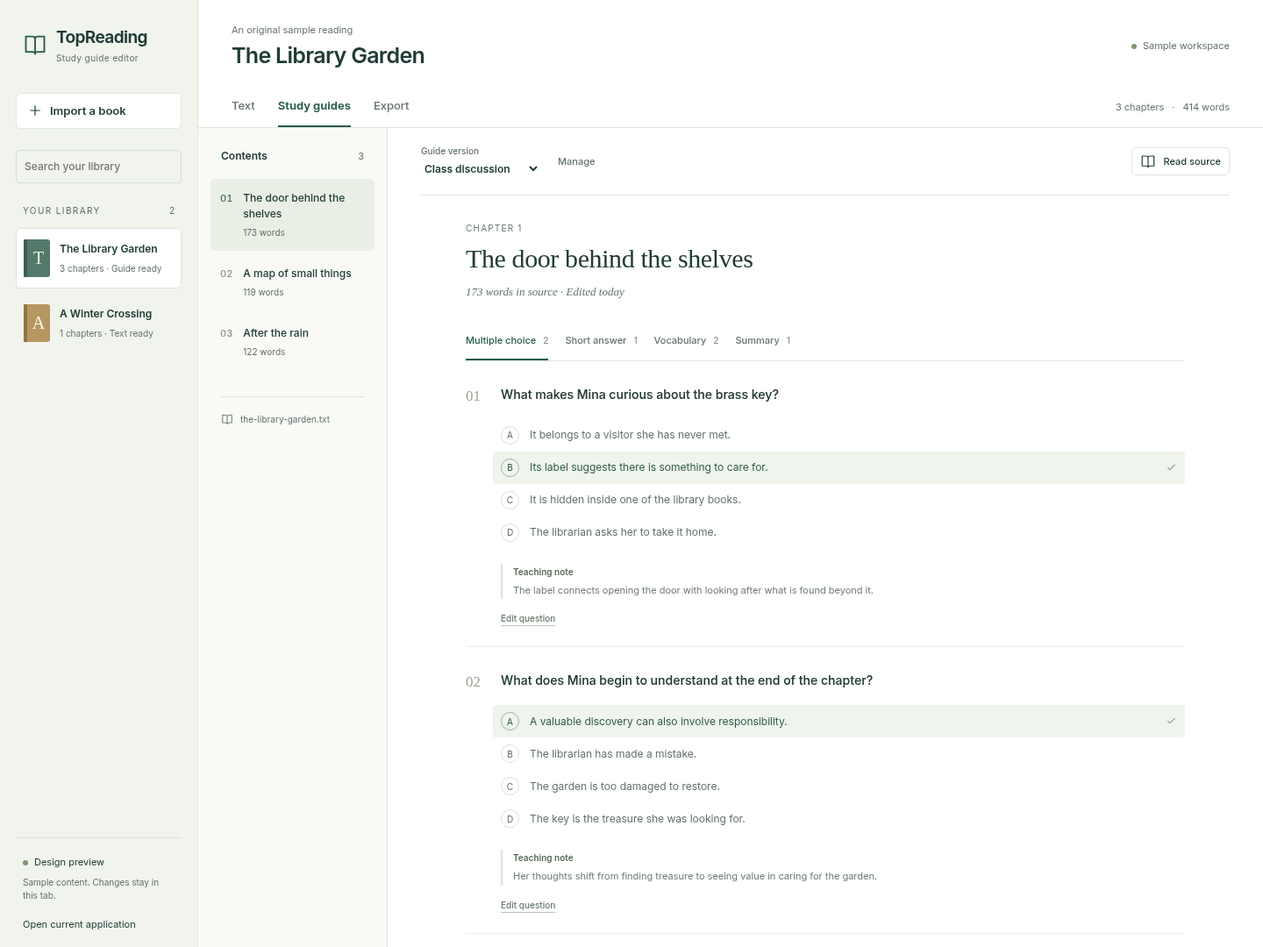
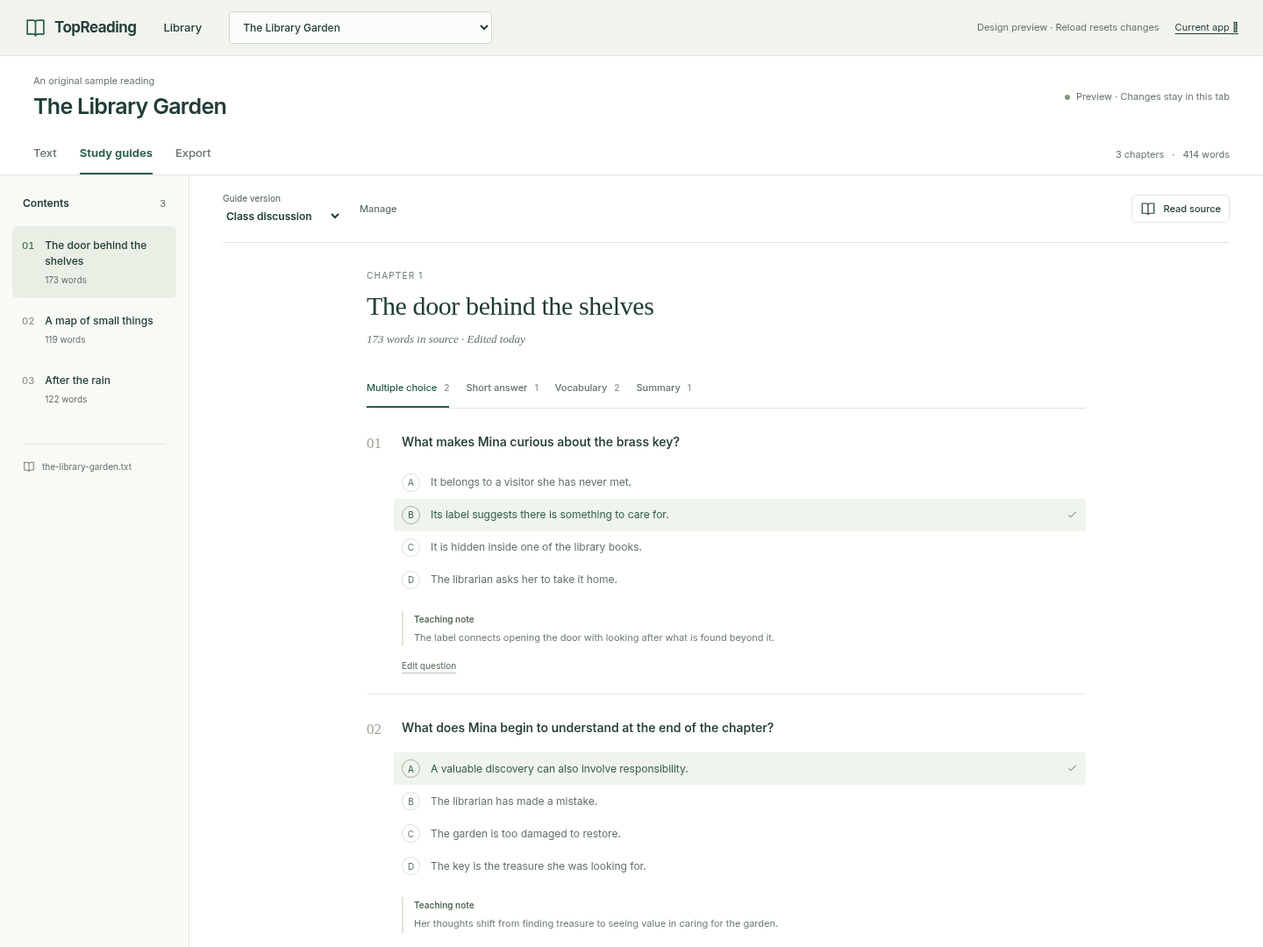
Replace nested library sidebar with a book switcher and library view

diff --git a/apps/web/src/app/prototype/reading-prototype.tsx b/apps/web/src/app/prototype/reading-prototype.tsx
@@ -35,6 +35,8 @@ export function ReadingPrototype() {
   const [splitPosition, setSplitPosition] = useState(0);
   const dialog = useRef<HTMLDialogElement>(null);
   const chapterText = useRef<HTMLTextAreaElement>(null);
+  const readingPositions = useRef(new Map<string, { chapterId: string; guideId: string; view: View; kind: ItemKind; draft: Item | null; sourceOpen: boolean }>());
+  const pageHeading = useRef<HTMLHeadingElement>(null);
   const book = books.find(b => b.id === bookId) || books[0];
   const chapter = book.chapters.find(c => c.id === chapterId) || book.chapters[0];
   const guide = book.guides.find(g => g.id === guideId) || book.guides[0];
@@ -53,12 +55,24 @@ export function ReadingPrototype() {
     return () => clearTimeout(timer);
   }, [message]);
 
+  useEffect(() => {
+    pageHeading.current?.focus();
+  }, [libraryOpen, bookId]);
+
   function updateBook(update: (b: Book) => Book) {
     setBooks(previous => previous.map(b => b.id === book.id ? update(b) : b));
   }
   function selectBook(next: Book) {
-    setBookId(next.id); setChapterId(next.chapters[0].id); setGuideId(next.guides[0]?.id || "");
-    setView(next.guides.length ? "guides" : "text"); setDraft(null); setLibraryOpen(false); setSplitPosition(0);
+    setLibraryOpen(false);
+    if (next.id === book.id) return;
+    readingPositions.current.set(book.id, { chapterId: chapter.id, guideId: guide?.id || "", view, kind, draft, sourceOpen });
+    const position = readingPositions.current.get(next.id);
+    setBookId(next.id);
+    setChapterId(next.chapters.find(c => c.id === position?.chapterId)?.id || next.chapters[0].id);
+    setGuideId(next.guides.find(g => g.id === position?.guideId)?.id || next.guides[0]?.id || "");
+    setView(position?.view || (next.guides.length ? "guides" : "text"));
+    setKind(position?.kind || "multiple-choice"); setDraft(position?.draft || null);
+    setSourceOpen(position?.sourceOpen || false); setSplitPosition(0);
   }
   function selectChapter(id: string) {
     setChapterId(id); setDraft(null); setSplitPosition(0);
@@ -122,21 +136,24 @@ export function ReadingPrototype() {
   }
 
   return <main className={s.shell}>
-    <aside className={`${s.library} ${libraryOpen ? s.libraryVisible : ""}`} aria-label="Book library">
-      <a href="/prototype" className={s.brand}><Mark name="book" /><span>TopReading<span className={s.brandSub}>Study guide editor</span></span></a>
-      <button className={s.newBook} onClick={() => { setImportError(""); setModal("import"); }}><Mark name="plus" />Import a book</button>
-      <label className={s.search}><span>Find a book</span><input placeholder="Search your library" value={search} onChange={e => setSearch(e.target.value)} /></label>
-      <div className={s.libraryLabel}>YOUR LIBRARY <span>{books.length}</span></div>
-      <div className={s.bookList}>{books.filter(b => b.title.toLowerCase().includes(search.toLowerCase())).map((b, i) => <button key={b.id} className={b.id === book.id ? s.activeBook : ""} aria-pressed={b.id === book.id} onClick={() => selectBook(b)}><span className={`${s.bookSpine} ${i % 2 ? s.ochre : ""}`}>{b.title.slice(0, 1)}</span><span><strong>{b.title}</strong><small>{b.chapters.length} chapters · {b.guides.length ? "Guide ready" : "Text ready"}</small></span></button>)}{!books.some(b => b.title.toLowerCase().includes(search.toLowerCase())) ? <p className={s.quiet}>No books match your search.</p> : null}</div>
-      <footer className={s.libraryFooter}><span className={s.previewDot} />Design preview<p>Sample content. Changes stay in this tab.</p><a href="/">Open current application <span aria-hidden="true">↗</span></a></footer>
-      <button className={s.mobileClose} onClick={() => setLibraryOpen(false)}>Close library</button>
-    </aside>
-    {libraryOpen ? <button className={s.scrim} aria-label="Close library" onClick={() => setLibraryOpen(false)} /> : null}
-    <section className={s.workspace} aria-label="Selected book">
+    <header className={s.appBar}>
+      <span className={s.brand}><Mark name="book" /><span className={s.brandName}>TopReading</span></span>
+      <button className={s.libraryButton} aria-pressed={libraryOpen} onClick={() => setLibraryOpen(true)}>Library</button>
+      <label className={s.bookSwitcher}><span>Current book</span><select aria-label="Current book" value={book.id} onChange={e => selectBook(books.find(b => b.id === e.target.value)!)}>{books.map(b => <option key={b.id} value={b.id}>{b.title}</option>)}</select></label>
+      <span className={s.previewLabel}>Design preview · Reload resets changes</span>
+      <a className={s.currentApp} href="/">Current app ↗</a>
+    </header>
+    {libraryOpen ? <section className={s.libraryPage} aria-label="Book library">
+      <div className={s.libraryInner}>
+        <div className={s.libraryHeading}><div><p className={s.chapterKicker}>Your reading workspace</p><h1 ref={pageHeading} tabIndex={-1}>Library</h1><p>Choose a book to continue, or bring in a new reading.</p></div><button className={s.primary} onClick={() => { setImportError(""); setModal("import"); }}><Mark name="plus" />Import a book</button></div>
+        <div className={s.libraryTools}><label className={s.search}><span>Find a book</span><input placeholder="Search by title or author" value={search} onChange={e => setSearch(e.target.value)} /></label><span>{books.length} {books.length === 1 ? "book" : "books"}</span></div>
+        <div className={s.bookList}>{books.filter(b => `${b.title} ${b.author}`.toLowerCase().includes(search.toLowerCase())).map((b, i) => <button key={b.id} aria-label={`Open ${b.title}`} onClick={() => selectBook(b)}><span className={`${s.bookSpine} ${i % 2 ? s.ochre : ""}`}>{b.title.slice(0, 1)}</span><span className={s.bookDetails}><strong>{b.title}</strong><small>{b.author}</small></span><span className={s.bookMeta}>{b.chapters.length} {b.chapters.length === 1 ? "chapter" : "chapters"}<small>{b.guides.length ? `${b.guides.length} guide ${b.guides.length === 1 ? "version" : "versions"}` : "Text ready"}</small></span><span className={s.openBook}>{b.id === book.id ? "Continue" : "Open"}<Mark name="arrow" /></span></button>)}{!books.some(b => `${b.title} ${b.author}`.toLowerCase().includes(search.toLowerCase())) ? <p className={s.empty}>No books match your search.</p> : null}</div>
+        <footer className={s.libraryFooter}><button onClick={() => setLibraryOpen(false)}>Return to {book.title}</button><p>Changes stay in this preview tab. Reloading resets the library.</p></footer>
+      </div>
+    </section> : <section className={s.workspace} aria-label="Selected book">
       <header className={s.header}>
-        <button className={s.mobileMenu} aria-label="Open library" aria-expanded={libraryOpen} onClick={() => setLibraryOpen(true)}><Mark name="menu" /></button>
-        <div className={s.bookHeading}><p>{book.author}</p><h1>{book.title}</h1></div>
-        <span className={s.headerStatus}><span className={s.previewDot} />Sample workspace</span>
+        <div className={s.bookHeading}><p>{book.author}</p><h1 ref={pageHeading} tabIndex={-1}>{book.title}</h1></div>
+        <span className={s.headerStatus}><span className={s.previewDot} />Preview · Changes stay in this tab</span>
       </header>
       <nav className={s.navigation} aria-label="Book sections">{([['text', 'Text'], ['guides', 'Study guides'], ['export', 'Export']] as const).map(([id, label]) => <button key={id} className={view === id ? s.activeNav : ""} aria-pressed={view === id} onClick={() => { setView(id); setDraft(null); }}>{label}</button>)}<span>{book.chapters.length} chapters<span className={s.dot}>·</span>{book.chapters.reduce((sum, c) => sum + words(c.text), 0).toLocaleString()} words</span></nav>
 
@@ -168,7 +185,7 @@ export function ReadingPrototype() {
           <div className={s.printStage}><div className={s.printLabel}>HANDOUT PREVIEW <span>{exportCount} items</span></div><article className={s.printable}><header><span>TOPREADING · {includeAnswers ? "TEACHER COPY" : "READING PRACTICE"}</span><h2>{book.title}</h2><p>{guide?.name || "Choose a study guide"}</p>{!includeAnswers ? <p className={s.studentLine}>Name _______________________ &nbsp; Date ____________</p> : null}</header>{!exportCount ? <p className={s.quiet}>Create a guide and select content to preview a handout.</p> : selectedExportChapters.map((c, index) => <section className={s.printChapter} key={c.id}><h3>{book.chapters.findIndex(v => v.id === c.id) + 1}. {c.title}</h3>{kinds.filter(k => exportKinds.includes(k)).map(k => { const collection = guide.items.filter(i => i.chapterId === c.id && i.kind === k); return collection.length ? <section key={k}><h4>{labels[k]}</h4>{collection.map((item, i) => <div className={s.printItem} key={item.id}><span>{i + 1}.</span><div>{itemBody(item, includeAnswers)}</div></div>)}</section> : null; })}{index < selectedExportChapters.length - 1 ? <hr /> : null}</section>)}</article></div>
         </div>}
       </div>
-    </section>
+    </section>}
     <div role="status" className={`${s.toast} ${message ? s.toastVisible : ""}`}>{message}</div>
     <dialog ref={dialog} className={s.dialog} aria-labelledby="prototype-dialog-title" onClose={() => setModal(null)}><header><h2 id="prototype-dialog-title">{modal === "import" ? "Bring in a reading" : modal === "generate" ? "Create a sample guide" : "Guide versions"}</h2><button aria-label="Close dialog" onClick={() => setModal(null)}><Mark name="close" /></button></header>
       {modal === "import" ? <><p>Try the import and chapter-review workflow with a text file. Nothing is uploaded to a server.</p><label className={s.dropzone}><Mark name="book" /><strong>{importing ? "Reading your file…" : "Choose a text file"}</strong><span>TXT · up to 2 MB</span><input type="file" accept=".txt,text/plain" aria-label="Import text file" disabled={importing} onChange={e => void importFile(e.target.files?.[0])} /></label><p className={s.quiet}>PDF and EPUB importing will use the extraction pipeline in the finished application.</p>{importError ? <p role="alert" className={s.error}>{importError}</p> : null}</> : modal === "generate" ? <form onSubmit={e => { e.preventDefault(); createGuide(); }}><p>This preview creates sample questions and a summary for each chapter so you can try editing and exporting. It does not call an AI service.</p><label>Guide name<input autoFocus required value={guideName} onChange={e => setGuideName(e.target.value)} /></label><div className={s.guideSummary}><span>{book.chapters.length} chapters</span><span>Questions + summaries</span></div><button className={s.primary}>Create sample guide <Mark name="arrow" /></button></form> : modal === "versions" ? <><p>Each version keeps its own edits. Choose the one you want to work on.</p>{book.guides.map(g => <div className={s.versionRow} key={g.id}><label>Version name<input aria-label={`Name for ${g.name}`} value={g.name} onChange={e => updateBook(b => ({ ...b, guides: b.guides.map(v => v.id === g.id ? { ...v, name: e.target.value } : v) }))} /><small>{g.date} · {g.items.length} items</small></label><button onClick={() => { setGuideId(g.id); setDraft(null); setModal(null); }}>{g.id === guide?.id ? "Continue editing" : "Use version"}</button></div>)}<button className={s.primary} onClick={() => setModal("generate")}><Mark name="plus" />New sample guide</button></> : null}

diff --git a/apps/web/src/app/prototype/reading-prototype.module.css b/apps/web/src/app/prototype/reading-prototype.module.css
@@ -1,4 +1,4 @@
-.shell { --p-ink:#213c37; --p-muted:#64726d; --p-line:#e1e5df; --p-accent:#285b4b; --p-paper:#fbfbf7; display:grid; grid-template-columns:226px minmax(0,1fr); height:100dvh; color:var(--p-ink); background:var(--p-paper); font-size:14px; line-height:1.5; }
+.shell { --p-ink:#213c37; --p-muted:#64726d; --p-line:#e1e5df; --p-accent:#285b4b; --p-paper:#fbfbf7; display:flex; flex-direction:column; height:100dvh; color:var(--p-ink); background:var(--p-paper); font-size:14px; line-height:1.5; }
 .shell button,.dialog button { display:inline-flex; align-items:center; justify-content:center; gap:8px; border:1px solid var(--p-line,#e1e5df); background:white; color:var(--p-ink,#213c37); border-radius:5px; padding:8px 12px; font-size:13px; font-weight:500; }
 .shell button:hover,.dialog button:hover { background:#edf2ec; border-color:#bdcdc0; }
 .shell button:disabled,.dialog button:disabled { opacity:.45; cursor:not-allowed; }
@@ -10,29 +10,40 @@
 .shell .primary,.dialog .primary { background:var(--p-accent,#285b4b); color:white; border-color:var(--p-accent,#285b4b); }
 .shell .primary:hover,.dialog .primary:hover { background:#1e493d; color:white; }
 .quiet { color:var(--p-muted); font-size:13px; }
-.library { display:flex; flex-direction:column; background:#f1f3ed; border-right:1px solid var(--p-line); padding:29px 18px 18px; min-height:0; }
-.brand { display:flex; align-items:center; gap:10px; margin:0 8px 32px; text-decoration:none; font-size:19px; font-weight:650; letter-spacing:-.6px; }
-.brand>svg { width:28px; height:28px; color:var(--p-accent); }
-.brandSub { display:block; font-size:10px; font-weight:400; letter-spacing:.4px; color:var(--p-muted); margin-top:1px; }
-.library .newBook { justify-content:flex-start; padding:10px 12px; background:white; font-weight:600; }
-.search { margin:24px 0; }
-.search>span { position:absolute; width:1px; height:1px; overflow:hidden; clip:rect(0,0,0,0); }
-.search input { background:transparent; border-color:#d7ddd3; width:100%; font-size:12px; padding:9px; }
-.libraryLabel { display:flex; justify-content:space-between; color:#627267; font-size:10px; letter-spacing:1.4px; margin:0 8px 12px; }
-.libraryLabel span { letter-spacing:0; }
-.bookList { overflow-y:auto; flex:1; }
-.bookList>button { justify-content:flex-start; text-align:left; width:100%; padding:12px 8px; margin-bottom:5px; border:1px solid transparent; background:transparent; gap:11px; }
-.bookList>button.activeBook { background:#fff; border-color:#dce3d9; }
-.bookList strong { display:block; font-size:12px; font-weight:600; line-height:1.45; }
-.bookList small { display:block; font-size:10px; font-weight:400; margin-top:6px; color:var(--p-muted); }
-.bookSpine { display:flex; align-items:center; justify-content:center; font:20px Georgia,serif; color:#eaf1e8; background:#54796a; border-left:4px solid #3a6052; width:30px; height:43px; flex:0 0 30px; border-radius:1px 3px 3px 1px; }
+.appBar { display:flex; flex-shrink:0; align-items:center; gap:18px; min-height:64px; padding:10px 28px; border-bottom:1px solid var(--p-line); background:#f1f3ed; }
+.brand { display:flex; align-items:center; gap:9px; font-size:17px; font-weight:650; letter-spacing:-.5px; white-space:nowrap; }
+.brand>svg { width:25px; height:25px; color:var(--p-accent); }
+.shell .libraryButton { background:transparent; border-color:transparent; font-size:13px; }
+.shell .libraryButton[aria-pressed=true] { border-color:#c8d3c4; background:#e7ede2; }
+.bookSwitcher { min-width:0; max-width:300px; flex:1; }
+.bookSwitcher>span,.search>span { position:absolute; width:1px; height:1px; overflow:hidden; clip:rect(0,0,0,0); }
+.bookSwitcher select { width:100%; font-size:12px; background:#fbfcf9; }
+.previewLabel { margin-left:auto; font-size:11px; color:var(--p-muted); }
+.currentApp { font-size:11px; white-space:nowrap; text-underline-offset:3px; }
+.libraryPage { flex:1; min-height:0; overflow-y:auto; background:#fbfcf8; padding:55px 38px; }
+.libraryInner { max-width:980px; margin:auto; }
+.libraryHeading { display:flex; align-items:center; justify-content:space-between; gap:24px; margin-bottom:35px; }
+.libraryHeading h1 { font:38px/1.25 Georgia,serif; margin:0; }
+/* Route headings receive focus for announcements, but are not controls. */
+.bookHeading h1:focus,.libraryHeading h1:focus { outline:none; }
+.libraryHeading p:not(.chapterKicker) { color:var(--p-muted); font-size:13px; margin:12px 0 0; }
+.libraryTools { display:flex; align-items:center; justify-content:space-between; gap:20px; padding-bottom:20px; border-bottom:1px solid var(--p-line); }
+.libraryTools>span { font-size:12px; color:var(--p-muted); white-space:nowrap; }
+.search { width:min(370px,100%); }
+.search input { width:100%; font-size:13px; }
+.bookList>button { display:flex; justify-content:flex-start; text-align:left; width:100%; padding:23px 8px; border:0; border-bottom:1px solid var(--p-line); border-radius:0; background:transparent; gap:22px; }
+.bookDetails { flex:1; min-width:0; }
+.bookList strong { display:block; font:22px/1.4 Georgia,serif; overflow-wrap:anywhere; }
+.bookList small { display:block; font-size:12px; font-weight:400; margin-top:6px; color:var(--p-muted); }
+.bookMeta { flex:0 0 140px; font-size:12px; font-weight:400; }
+.openBook { display:flex; align-items:center; justify-content:flex-end; gap:12px; min-width:90px; font-size:12px; }
+.bookSpine { display:flex; align-items:center; justify-content:center; font:26px Georgia,serif; color:#eaf1e8; background:#54796a; border-left:5px solid #3a6052; width:45px; height:62px; flex:0 0 45px; border-radius:1px 3px 3px 1px; }
 .bookSpine.ochre { background:#b69762; border-color:#947542; color:#fff9eb; }
-.libraryFooter { border-top:1px solid #d9e0d5; padding:19px 8px 0; font-size:11px; }
-.libraryFooter p { font-size:10px; color:var(--p-muted); margin:7px 0 17px; max-width:160px; }
-.libraryFooter a { display:flex; justify-content:space-between; font-size:11px; text-decoration:none; }
+.libraryFooter { display:flex; align-items:center; justify-content:space-between; gap:20px; padding-top:28px; }
+.libraryFooter p { font-size:11px; color:var(--p-muted); }
 .previewDot { display:inline-block; width:6px; height:6px; border-radius:50%; background:#819675; margin-right:7px; }
-.workspace { display:flex; flex-direction:column; min-width:0; min-height:0; }
-.header { display:flex; align-items:center; gap:16px; justify-content:space-between; padding:26px 38px 21px; background:white; }
+.workspace { flex:1; display:flex; flex-direction:column; min-width:0; min-height:0; }
+.header { display:flex; align-items:center; gap:16px; justify-content:space-between; padding:20px 38px 17px; background:white; }
 .bookHeading { min-width:0; }
 .bookHeading p { color:var(--p-muted); font-size:11px; margin:0 0 5px; }
 .bookHeading h1 { font-size:25px; line-height:1.2; letter-spacing:-.7px; margin:0; font-weight:600; overflow-wrap:anywhere; }
@@ -161,9 +172,8 @@
 .dialog>.primary { margin-top:18px; }
 .toast { position:fixed; bottom:24px; left:50%; transform:translate(-50%,20px); max-width:min(560px,calc(100vw - 32px)); color:white; background:#274b3e; padding:12px 20px; border-radius:6px; font-size:12px; opacity:0; pointer-events:none; transition:opacity .15s,transform .15s; z-index:50; }
 .toastVisible { opacity:1; transform:translate(-50%,0); }
-.mobileMenu,.mobileClose,.chapterPicker,.scrim { display:none!important; }
+.chapterPicker { display:none!important; }
 @media (max-width:1200px) {
- .shell { grid-template-columns:195px minmax(0,1fr); }
  .outline { flex-basis:185px; padding-left:8px; padding-right:8px; }
  .header { padding-left:28px; padding-right:28px; }
  .navigation { padding:0 28px; }
@@ -174,16 +184,29 @@
  .printable { padding:30px; }
 }
 @media (max-width:950px) {
- .shell { grid-template-columns:1fr; }
- .library { display:none; }
- .library.libraryVisible { display:flex; position:fixed; top:0; bottom:0; left:0; width:270px; z-index:100; box-shadow:15px 0 50px #203d352b; }
- .mobileMenu,.mobileClose { display:inline-flex!important; }
- .mobileClose { margin-top:20px; }
- .scrim { display:block!important; position:fixed; inset:0; width:100%; height:100%; border:0!important; background:#17372a70!important; z-index:90; border-radius:0!important; }
- .headerStatus { margin-left:auto; }
- .header { justify-content:flex-start; }
+ .previewLabel { display:none; }
+ .currentApp { margin-left:auto; }
+ .appBar { gap:12px; padding-left:20px; padding-right:20px; }
 }
 @media (max-width:650px) {
+ .appBar { min-height:58px; padding:10px 16px; gap:8px; }
+ .brandName,.currentApp { display:none; }
+ .brand>svg { width:22px; height:22px; }
+ .shell .libraryButton { padding:8px; font-size:12px; }
+ .bookSwitcher { max-width:none; }
+ .bookSwitcher select { font-size:12px; padding:8px; }
+ .libraryPage { padding:30px 20px; }
+ .libraryHeading { flex-wrap:wrap; gap:18px; margin-bottom:25px; }
+ .libraryHeading h1 { font-size:32px; }
+ .bookList>button { display:grid; grid-template-columns:35px minmax(0,1fr); gap:7px 15px; padding:22px 0; }
+ .bookSpine { grid-row:1/3; width:35px; height:50px; font-size:23px; }
+ .bookList strong { font-size:20px; }
+ .bookList small { font-size:11px; }
+ .bookMeta { grid-column:2; font-size:11px; color:var(--p-muted); }
+ .bookMeta small { display:inline; margin-left:10px; }
+ .openBook { display:none; }
+ .libraryFooter { flex-direction:column; align-items:flex-start; gap:8px; }
+
  .header { padding:18px 17px 16px; gap:12px; }
  .bookHeading p { font-size:9px; }
  .bookHeading h1 { font-size:20px; }
@@ -227,7 +250,7 @@
 @media print {
  :global(html):has(.shell),:global(body):has(.shell) { height:auto!important; overflow:visible!important; background:white!important; }
  .shell,.workspace,.content,.exportWorkspace,.printStage { display:block!important; height:auto!important; overflow:visible!important; padding:0!important; background:white!important; }
- .library,.header,.navigation,.exportSettings,.printLabel,.toast,.dialog,.scrim { display:none!important; }
+ .appBar,.libraryPage,.header,.navigation,.exportSettings,.printLabel,.toast,.dialog { display:none!important; }
  .printable { border:0; padding:0; max-width:none; min-height:0; }
  .printChapter h3,.printChapter h4 { break-after:avoid; }
  .printItem { break-inside:avoid; }

diff --git a/docs/prototype-and-postgres.md b/docs/prototype-and-postgres.md
@@ -13,20 +13,32 @@ npm run dev
 
 Open `/prototype` on that development server. The existing application remains at `/`.
 
-The prototype has three destinations: Text, Study guides, and Export. It uses fictional sample readings and keeps changes in browser memory. Reloading resets everything. It makes no API requests, changes no application records, and makes no AI calls.
+Inside a book, the prototype has three destinations: Text, Study guides, and Export. A header book switcher and a separate searchable Library view replace the persistent library sidebar. Only the chapter outline remains beside Text and Study guides; Export uses that space for its settings. It uses fictional sample readings and keeps changes in browser memory. Reloading resets everything. It makes no API requests, changes no application records, and makes no AI calls.
 
 Try these tasks:
 
 1. Import a UTF-8 TXT file (up to 2 MB). Review suggested chapters, including any opening pages. Edit titles and text, split at the cursor, and merge adjacent chapters.
 2. Choose a guide version. Edit a question and its correct answer, add an item, and switch versions to check that their edits stay separate. Open the source text beside the questions. Create a new sample guide through Text or Manage.
 3. Choose Export, select chapters and content, and toggle answers. Use the browser print dialog to print or save a PDF.
-4. On a phone, open the library from the menu and change chapters using the picker.
+4. Open Library from the header and search by title or author. Return to the current book, or switch books using the header selector. Within this tab, each book retains its chapter, guide version, content type, source visibility, and question draft. On a phone, use the same header controls and the chapter picker.
 
 This slice establishes layout and interactions. It does not yet implement persistent saving, actual AI generation, PDF/EPUB extraction, DOCX export, Korean UI, dark mode, or job recovery states. Those remain in the [modernization plan](modernization-plan.md). Sample questions created from imported text are placeholders for exercising the workflow.
 
 ![Desktop study guide](prototype/desktop.png)
 
-[Phone layout](prototype/mobile.png) · [Handout preview](prototype/export.png)
+[Library view](prototype/library.png) · [Phone layout](prototype/mobile.png) · [Handout preview](prototype/export.png)
+
+## Design decisions before backend integration
+
+The single-sidebar layout is implemented. The following are recommended behavior defaults for the next implementation slice, not claims about completed prototype features:
+
+- **Saving and navigation:** show persistent Saving / Saved / Could not save feedback near the editor; preserve failed edits with a Retry action. Keep unsaved question drafts when navigating, and make reload/leave protection explicit. Restore book, task, chapter, and guide through URL state in the real app. The prototype only remembers book context in memory; changing a task/chapter/version can still discard an open question draft.
+- **Reversible chapter changes:** offer immediate Undo after splitting or merging, plus revision history. Review proposed boundaries before replacing the chapter structure. Each operation must be atomic and preserve the text; confirmation is appropriate for replacement or deletion rather than every ordinary edit.
+- **Generation and source changes:** generate into a new guide version by default, preserving manual edits. Separate Queued / Generating / Ready / Failed from Needs review after a source edit. Record the source revision each generated item used; retry failed work without duplicating completed items. Legacy provenance remains unknown.
+- **Output intent:** name student handouts and teacher copies explicitly, show the selected guide/chapter scope, and make answer inclusion visible in the preview. Preserve the existing standalone answer-key formats when production exports are connected.
+- **Accessibility and language:** check keyboard focus, readable contrast, touch targets, long titles, Korean text, and dark mode before replacing the current UI. Keep source comparison optional and within the workspace; do not add another permanent navigation sidebar.
+
+These behaviors guide the data-access, revision, and job APIs. Further visual polish can happen alongside implementation; the layout does not need another major redesign before those foundations begin.
 
 ## PostgreSQL scope
 
@@ -81,7 +93,7 @@ This is a bootstrap importer, not an ongoing synchronization process. Later sche
 
 ## Verification evidence
 
-The production build and TypeScript checks pass. Chromium workflow checks pass at desktop (1440 × 1080) and phone (390 × 844) sizes, covering version-specific edits, dialog dismissal, TXT import, split/merge, sample guide creation, mobile chapter/library navigation, and printing. There were no browser page errors or prototype API requests. The generated two-page PDF contains the selected questions and answers and excludes application navigation. All 17 Python tests pass against the isolated PostgreSQL instance.
+The production build and TypeScript checks pass. Chromium workflow checks pass at desktop (1440 × 1080) and phone (390 × 844) sizes, covering version-specific edits, dialog dismissal, TXT import, split/merge, sample guide creation, mobile chapter/library navigation, and printing. The single-sidebar revision also passed library title/author search, empty-search results, return-to-book behavior, draft preservation across book switches, and overflow checks at 320 px width. There were no browser page errors or prototype API requests. The generated two-page PDF contains the selected questions and answers and excludes application navigation. All 17 Python tests pass against the isolated PostgreSQL instance.
 
 The 2026-10-23 production backup was imported into an isolated local PostgreSQL 17 instance. All 12 legacy tables reconciled by row count and normalized content checksum:
 
